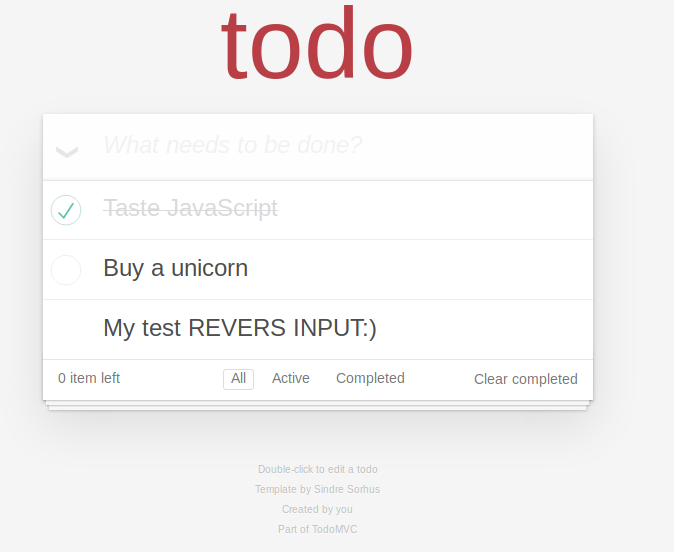
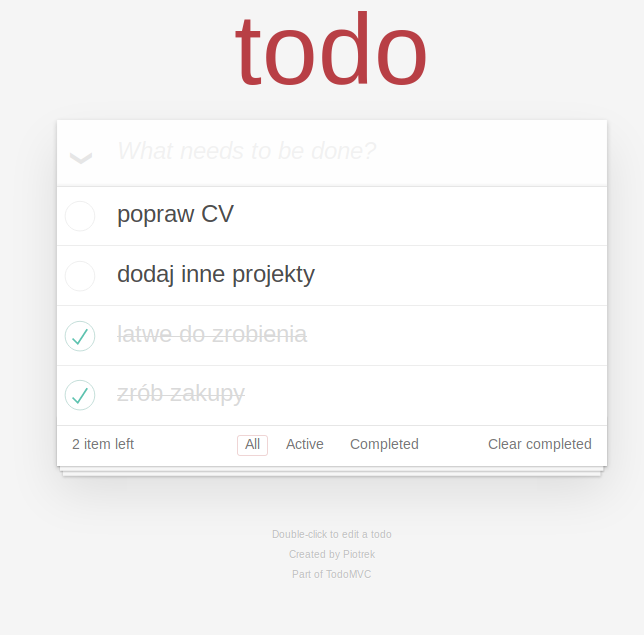
add image

diff --git a/public/zadanieDnia/index.html b/public/zadanieDnia/index.html
@@ -55,7 +55,7 @@
     <!-- This footer should hidden by default and shown when there are todos -->
     <footer class="footer">
         <!-- This should be `0 items left` by default -->
-        <span class="todo-count"><strong>0</strong> item left</span>
+        <span class="todo-count"><strong>2</strong> item left</span>
         <!-- Remove this if you don't implement routing -->
         <ul class="filters">
             <li>
